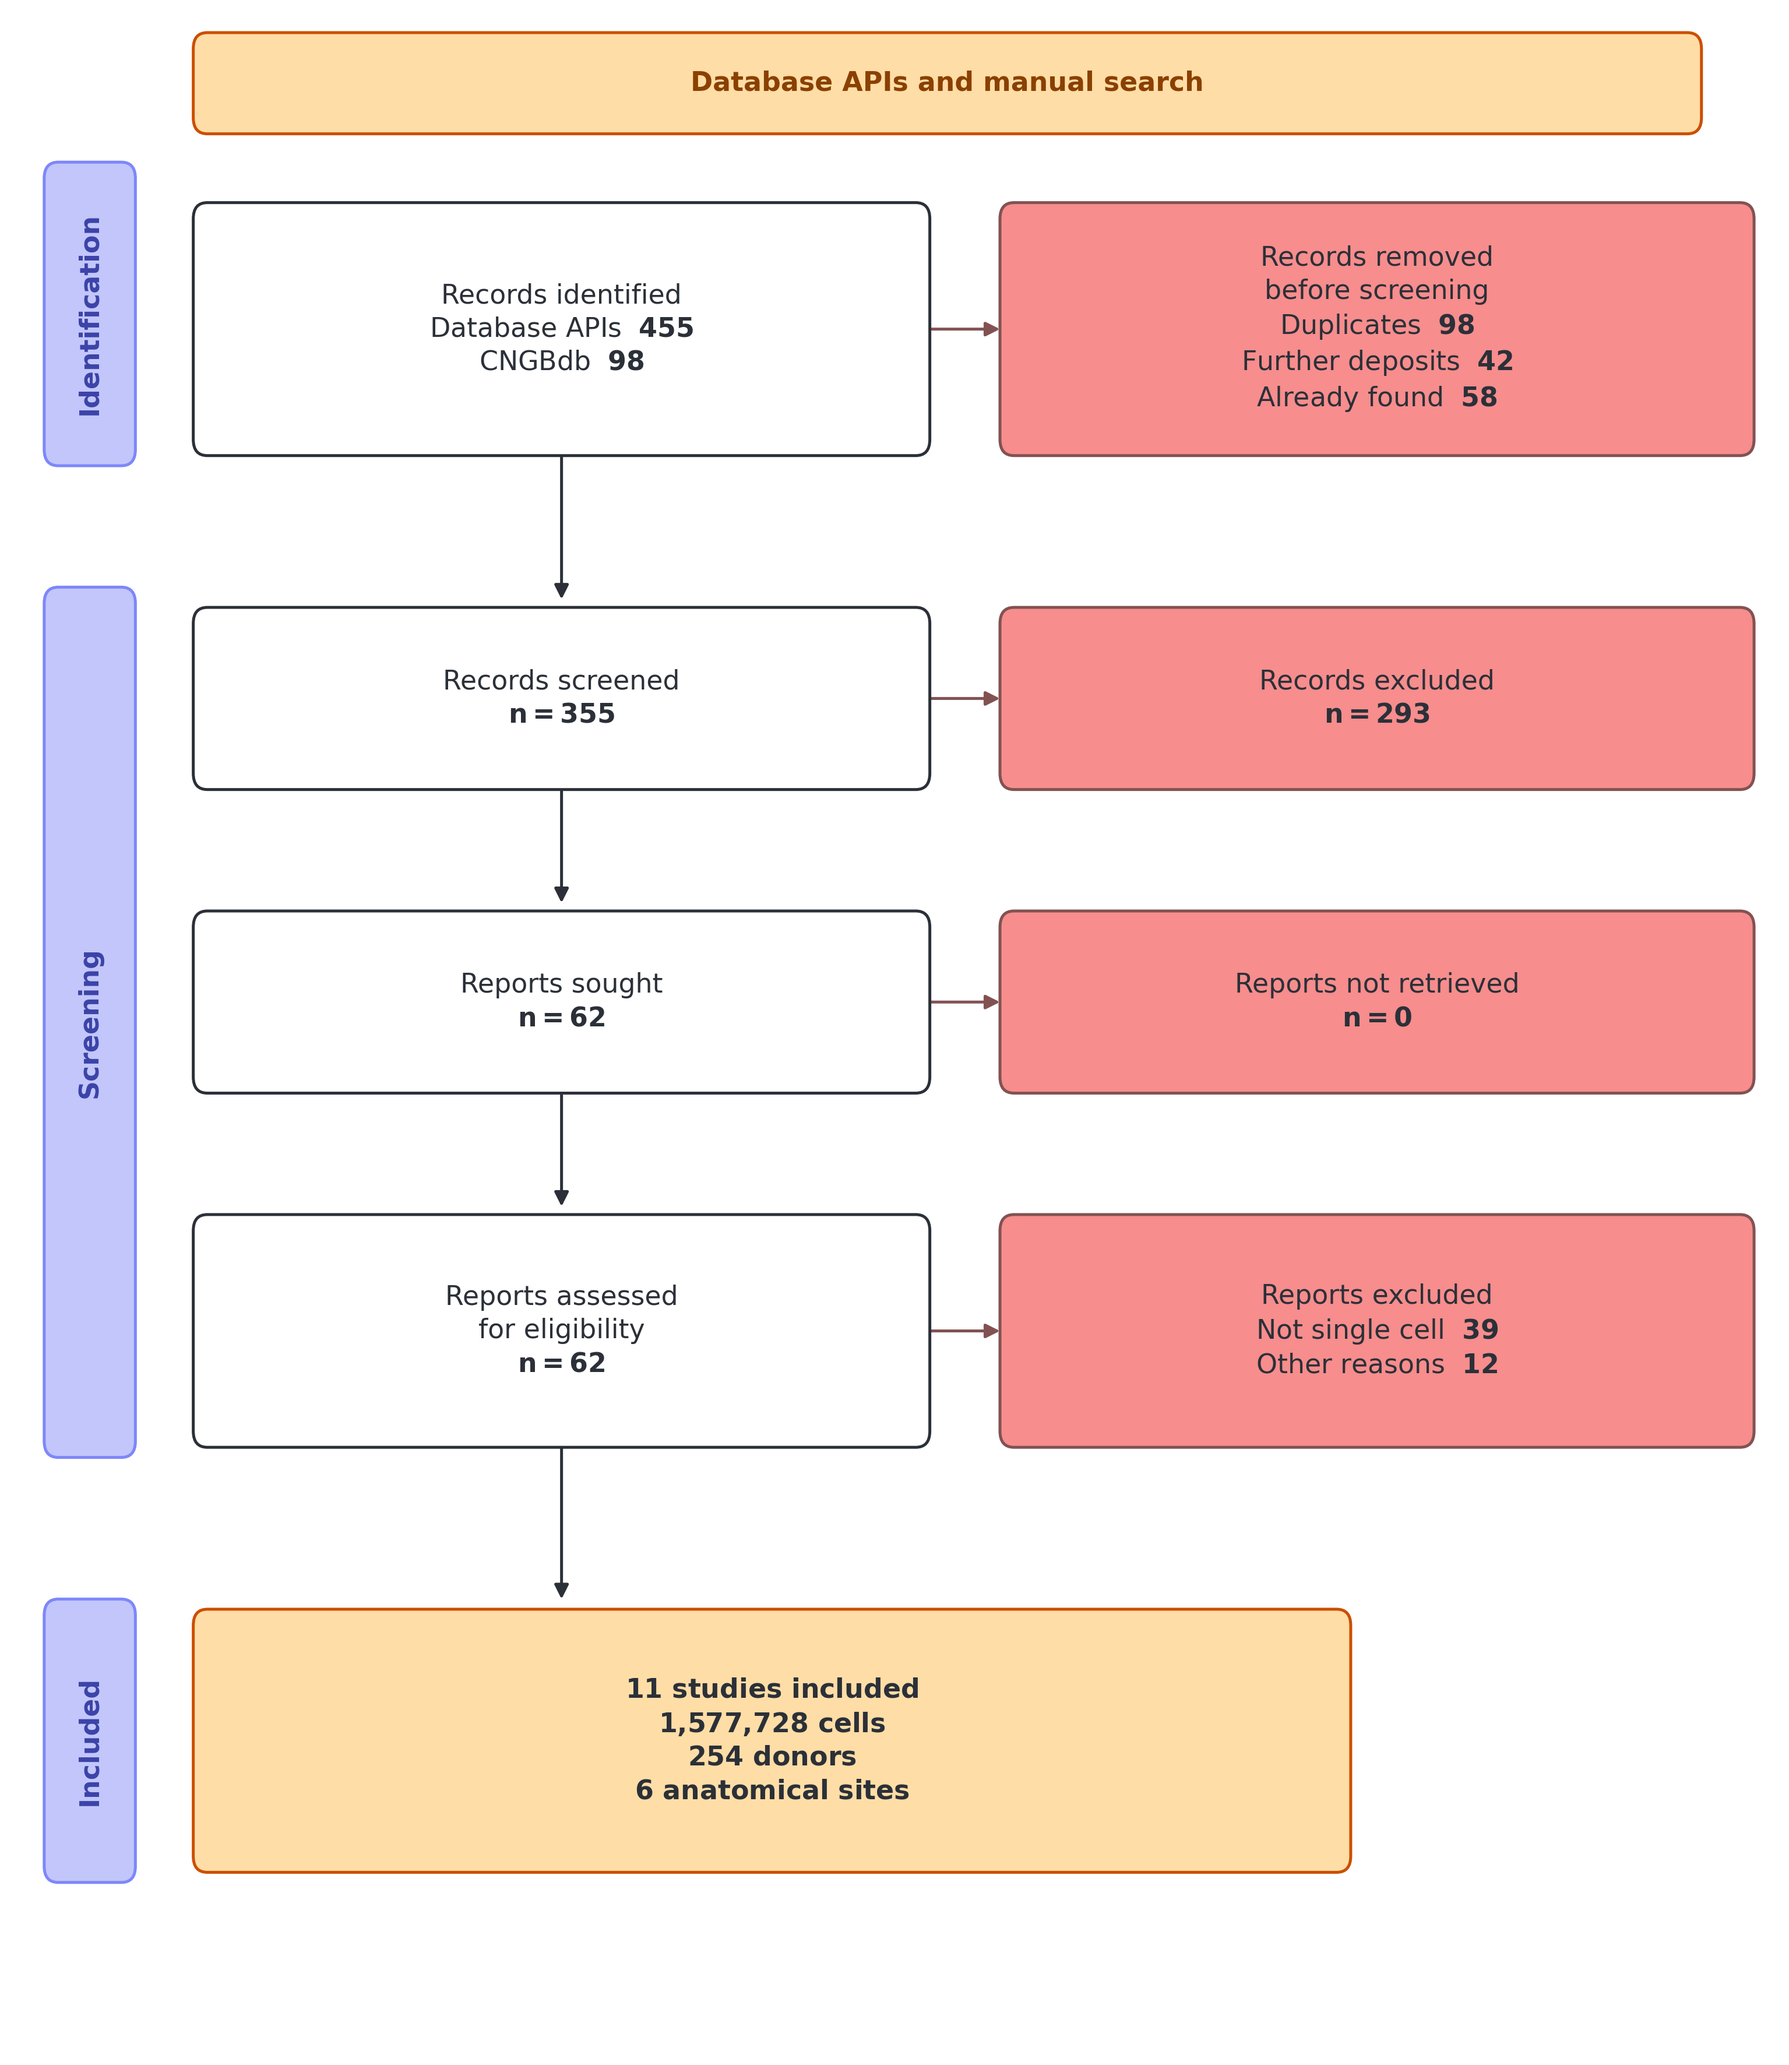
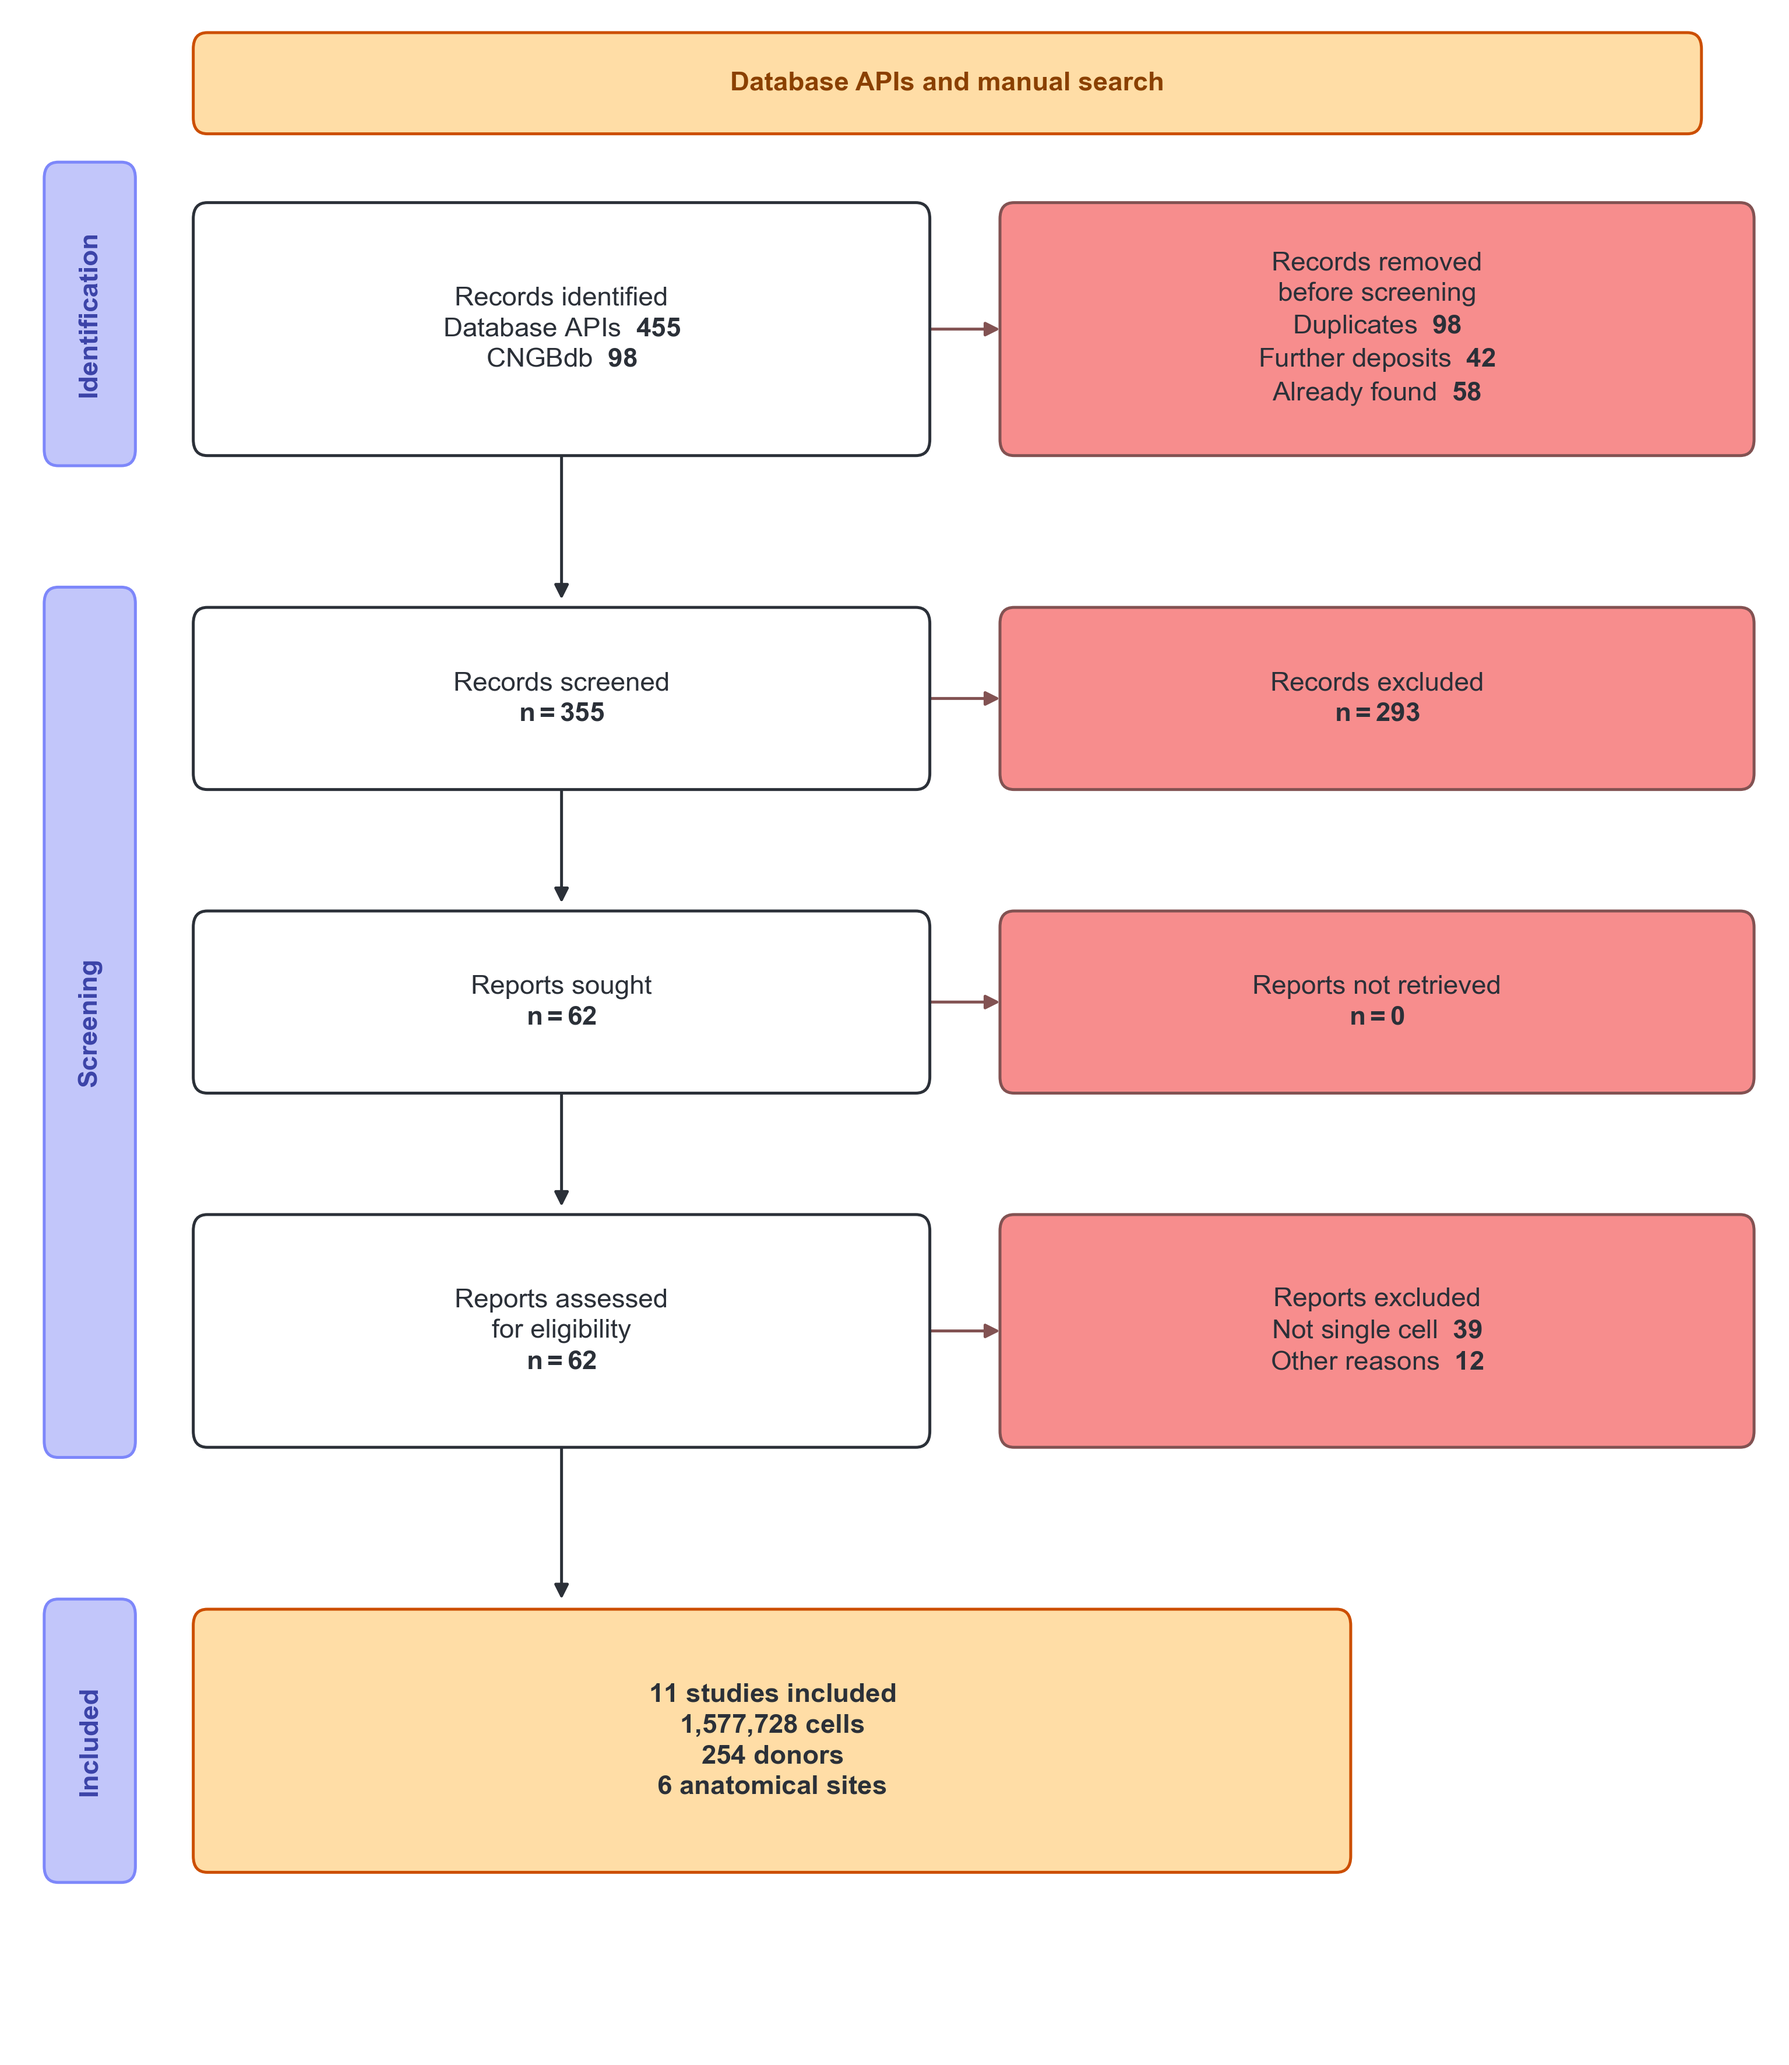
Arial across every figure: one typeface spanning LucidChart and matplotlib

diff --git a/figures/scripts/figure1.py b/figures/scripts/figure1.py
@@ -44,6 +44,12 @@ from __future__ import annotations
 import os, sys
 from pathlib import Path
 
+# ARIAL THROUGHOUT, and it is a shared decision rather than a default.
+# Panel a is drawn in LucidChart and the rest here, so one typeface has
+# to span both. Arial ships on macOS as a .ttf LucidChart can import,
+# matplotlib resolves it to the same file, and it is the grotesque the
+# Nature family sets its own figures in. It also carries every mark this
+# paper needs: Dümpelmann, Marečková, García-Alonso, lambda, subscripts.
 import matplotlib
 matplotlib.use("Agg")
 import matplotlib.pyplot as plt
@@ -100,11 +106,14 @@ STUDY_C = [TEAL, AMBER, BLUE, PURPLE, GREEN, SALMON_F, PERI, "#3A414A",
 
 # ── type scale, scGPT's, and nothing outside it ──────────────────────────
 FS_LETTER, FS_TITLE, FS_BODY = 9.0, 6.5, 5.5
-plt.rcParams.update({"font.family": "DejaVu Sans", "font.size": FS_BODY,
+plt.rcParams.update({"font.family": "Arial", "font.size": FS_BODY,
                      "text.color": INK, "axes.labelcolor": INK,
                      "xtick.color": SOFT, "ytick.color": SOFT,
                      "axes.edgecolor": HAIR, "axes.linewidth": .5,
-                     "mathtext.fontset": "dejavusans"})
+                     "mathtext.fontset": "custom",
+                     "mathtext.rm": "Arial",
+                     "mathtext.it": "Arial:italic",
+                     "mathtext.bf": "Arial:bold"})
 
 
 def head(ax, letter, title=None, dx=0.0):

diff --git a/figures/scripts/extdata1_prisma.py b/figures/scripts/extdata1_prisma.py
@@ -29,6 +29,12 @@ from __future__ import annotations
 import os
 from pathlib import Path
 
+# ARIAL THROUGHOUT, and it is a shared decision rather than a default.
+# Panel a is drawn in LucidChart and the rest here, so one typeface has
+# to span both. Arial ships on macOS as a .ttf LucidChart can import,
+# matplotlib resolves it to the same file, and it is the grotesque the
+# Nature family sets its own figures in. It also carries every mark this
+# paper needs: Dümpelmann, Marečková, García-Alonso, lambda, subscripts.
 import matplotlib
 matplotlib.use("Agg")
 import matplotlib.pyplot as plt
@@ -44,8 +50,11 @@ PERI, PERI_F = "#7D87FA", "#C2C6FA"
 # The type scale is Figure 1's, measured off scGPT and scFoundation:
 # panel letter 9, title 6.5, body 5.5. Extended Data has no panel letter.
 FS_BODY = 5.5
-plt.rcParams.update({"font.family": "DejaVu Sans", "font.size": FS_BODY,
-                     "text.color": INK, "mathtext.fontset": "dejavusans"})
+plt.rcParams.update({"font.family": "Arial", "font.size": FS_BODY,
+                     "text.color": INK, "mathtext.fontset": "custom",
+                     "mathtext.rm": "Arial",
+                     "mathtext.it": "Arial:italic",
+                     "mathtext.bf": "Arial:bold"})
 
 
 def bf(s) -> str:

diff --git a/figures/scripts/panel_dissociation.py b/figures/scripts/panel_dissociation.py
@@ -33,6 +33,12 @@ from __future__ import annotations
 import os
 from pathlib import Path
 
+# ARIAL THROUGHOUT, and it is a shared decision rather than a default.
+# Panel a is drawn in LucidChart and the rest here, so one typeface has
+# to span both. Arial ships on macOS as a .ttf LucidChart can import,
+# matplotlib resolves it to the same file, and it is the grotesque the
+# Nature family sets its own figures in. It also carries every mark this
+# paper needs: Dümpelmann, Marečková, García-Alonso, lambda, subscripts.
 import matplotlib
 matplotlib.use("Agg")
 import matplotlib.pyplot as plt
@@ -50,8 +56,11 @@ AMBER, AMBER_F = "#CC4E00", "#FFDDA6"
 SALMON, SALMON_F = "#825252", "#F78D8D"
 NULLC = "#DDE0E4"
 FS_LETTER, FS_TITLE, FS_BODY = 9.0, 6.5, 5.5
-plt.rcParams.update({"font.family": "DejaVu Sans", "font.size": FS_BODY,
-                     "text.color": INK, "mathtext.fontset": "dejavusans"})
+plt.rcParams.update({"font.family": "Arial", "font.size": FS_BODY,
+                     "text.color": INK, "mathtext.fontset": "custom",
+                     "mathtext.rm": "Arial",
+                     "mathtext.it": "Arial:italic",
+                     "mathtext.bf": "Arial:bold"})
 
 # (display label, file, test, label-in-file, which block)
 ROWS = [

diff --git a/figures/scripts/panel_a_mockup.py b/figures/scripts/panel_a_mockup.py
@@ -27,6 +27,12 @@ from __future__ import annotations
 import os
 from pathlib import Path
 
+# ARIAL THROUGHOUT, and it is a shared decision rather than a default.
+# Panel a is drawn in LucidChart and the rest here, so one typeface has
+# to span both. Arial ships on macOS as a .ttf LucidChart can import,
+# matplotlib resolves it to the same file, and it is the grotesque the
+# Nature family sets its own figures in. It also carries every mark this
+# paper needs: Dümpelmann, Marečková, García-Alonso, lambda, subscripts.
 import matplotlib
 matplotlib.use("Agg")
 import matplotlib.pyplot as plt
@@ -44,7 +50,7 @@ ROSE = "#C2544E"
 NOTE = "#7A818C"
 
 FS_HEAD, FS_BOX, FS_NOTE = 6.5, 6.0, 5.2
-plt.rcParams.update({"font.family": "DejaVu Sans", "text.color": "#2B3038"})
+plt.rcParams.update({"font.family": "Arial", "text.color": "#2B3038"})
 
 
 def box(ax, x, y, w, h, label, fc, ec, tc, fs=FS_BOX, rot=0, weight=None):
